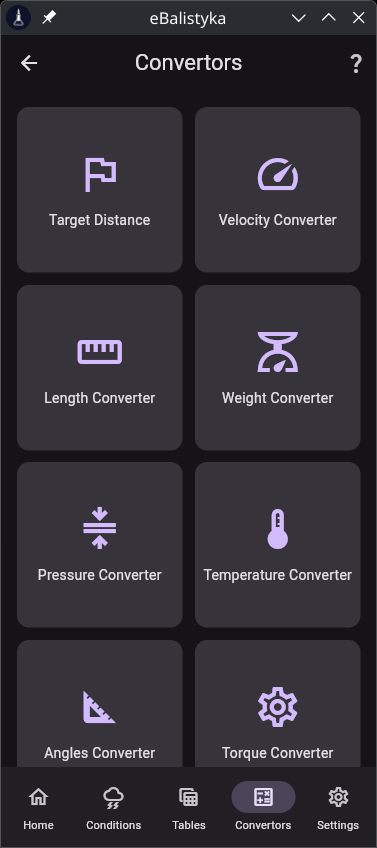
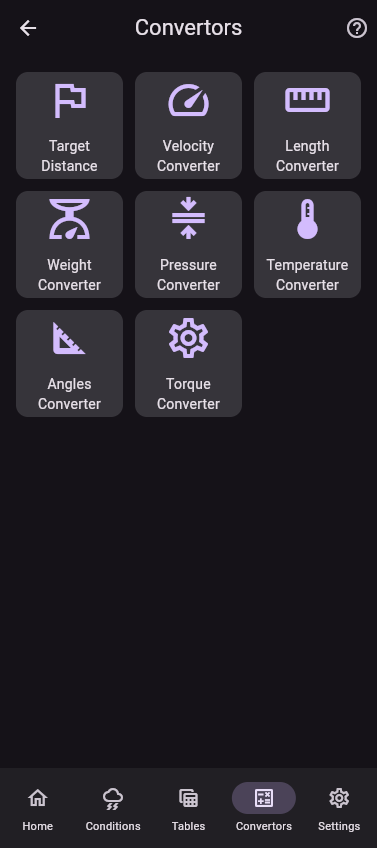
docs(help): refresh the Convertors topics; fix the pressure convertor default (760 mmHg = 1013 hPa) (0012)

diff --git a/packages/ebc_db/lib/src/ops/settings_ops.dart b/packages/ebc_db/lib/src/ops/settings_ops.dart
@@ -75,8 +75,10 @@ void _sanitizeConvertorsState(ConvertorsState c) {
 ConvertorsState defaultConvertorsState() => ConvertorsState(
   length: UnitValue(value: 100.0, lastUnit: 'inch'),
   weight: UnitValue(value: 100.0, lastUnit: 'grain'),
-  // Stored in mmHg, shown in hPa — ported app behaviour, see the schema.
-  pressure: UnitValue(value: 1013.0, lastUnit: 'hPa'),
+  // Stored in mmHg: 760 mmHg is the standard atmosphere, i.e. 1013 hPa. (The
+  // old entity default was 1013 here, which the converter showed as
+  // 1351 hPa — a unit mix-up, not worth porting.)
+  pressure: UnitValue(value: 760.0, lastUnit: 'hPa'),
   temperature: UnitValue(value: 68.0, lastUnit: 'celsius'),
   torque: UnitValue(value: 100.0, lastUnit: 'newtonMeter'),
   angles: AnglesConv(

diff --git a/packages/ebc_db/test/settings_test.dart b/packages/ebc_db/test/settings_test.dart
@@ -66,6 +66,7 @@ void main() {
 
     test('defaultConvertorsState is non-zero, matching the old defaults', () {
       final c = defaultConvertorsState();
+      expect(c.pressure.value, 760.0); // mmHg = 1013 hPa
       expect(c.length.value, 100.0);
       expect(c.length.lastUnit, 'inch');
       expect(c.velocity.valueMps, 300.0);

diff --git a/assets/markdown/uk/convertorsScreen.md b/assets/markdown/uk/convertorsScreen.md
@@ -1,22 +1,24 @@
 ## Конвертери
 
+![Конвертери](resource:assets/markdown/uk/convertorsScreen_grid.png)
+
 Набір інструментів для швидкого перетворення балістичних і фізичних величин.
 
-Натисніть на будь-яку плитку, щоб відкрити конвертер.
+Натисніть на будь-яку плитку, щоб відкрити конвертер: **Відстань до цілі**, **Швидкість**, **Довжина**, **Вага**, **Тиск**, **Температура**, **Кути** та **Момент**. Кожен запам'ятовує останнє значення й одиницю, які ви використовували.
 
 ---
 
 ### Прості конвертери
 
-Вводьте значення у верхньому полі, обирайте одиниці — решта полів оновлюються миттєво.
+Вводьте значення у верхньому полі й обирайте його одиницю — решта значень оновлюються миттєво.
 
 | Конвертер | Одиниці |
 |---|---|
 | **Довжина** | см, м, дюйм, фут, ярд |
-| **Маса** | г, кг, гран, фунт, унція |
-| **Тиск** | hPa, mmHg, inHg, psi, bar, атм |
+| **Вага** | г, кг, гран, фунт, унція |
+| **Тиск** | гПа, mmHg, inHg, psi, bar, атм |
 | **Температура** | °C, °F |
-| **Момент сили** | Н·м, ft·lbf, in·lbf |
+| **Момент** | Н·м, ft·lb, in·lb |
 
 ---
 
@@ -24,6 +26,6 @@
 
 Три конвертери мають додаткові поля та власну довідку (кнопка **?**):
 
-- **Швидкість** — конвертація між м/с, fps, mph, km/h та числом Маха з урахуванням атмосфери
-- **Дистанція за ціллю** — розрахунок дистанції за кутовим і фізичним розміром цілі
+- **Швидкість** — конвертація між м/с, км/год, fps, mph та числом Маха, з можливістю власної атмосфери
+- **Відстань до цілі** — розрахунок дистанції за кутовим і фізичним розміром цілі
 - **Кути** — конвертація між кутовими одиницями та розрахунок поправок на дистанції

diff --git a/assets/markdown/en/convertorsScreen.md b/assets/markdown/en/convertorsScreen.md
@@ -1,29 +1,31 @@
-## Converters
+## Convertors
+
+![Convertors](resource:assets/markdown/en/convertorsScreen_grid.png)
 
 A set of tools for quick conversion of ballistic and physical quantities.
 
-Tap any tile to open a converter.
+Tap any tile to open a convertor: **Target Distance**, **Velocity**, **Length**, **Weight**, **Pressure**, **Temperature**, **Angles** and **Torque**. Each remembers the last value and unit you used.
 
 ---
 
-### Simple Converters
+### Simple Convertors
 
-Enter a value in the top field and select units — all other fields update instantly.
+Enter a value in the top field and select its unit — all other values update instantly.
 
-| Converter | Units |
+| Convertor | Units |
 |---|---|
 | **Length** | cm, m, inch, foot, yard |
 | **Weight** | g, kg, grain, pound, ounce |
 | **Pressure** | hPa, mmHg, inHg, psi, bar, atm |
 | **Temperature** | °C, °F |
-| **Torque** | N·m, ft·lbf, in·lbf |
+| **Torque** | N·m, ft·lb, in·lb |
 
 ---
 
-### Advanced Converters
+### Advanced Convertors
 
-Three converters have extra fields and their own guide (**?** button):
+Three convertors have extra fields and their own guide (the **?** button):
 
-- **Velocity** — convert between m/s, fps, mph, km/h and Mach number with atmosphere support
+- **Velocity** — convert between m/s, km/h, fps, mph and Mach number, with a custom atmosphere option
 - **Target Distance** — calculate distance from a target's angular and physical size
 - **Angles** — convert between angular units and compute adjustments at a given distance

diff --git a/assets/markdown/uk/velocityConvertor.md b/assets/markdown/uk/velocityConvertor.md
@@ -10,7 +10,7 @@
 
 Число Маха залежить від швидкості звуку, яка змінюється разом з атмосферними умовами.
 
-За замовчуванням використовується стандартна атмосфера ICAO (15 °C, 1013.25 hPa, висота 0 м).
+За замовчуванням використовується стандартна атмосфера ICAO (15 °C, 1013.25 hPa, висота 0 м, сухе повітря); рядок під перемикачем показує, яка саме атмосфера використовується.
 
 **Перемикач «Власна атмосфера»** — дозволяє задати реальні умови:
 

diff --git a/assets/markdown/en/velocityConvertor.md b/assets/markdown/en/velocityConvertor.md
@@ -10,9 +10,9 @@ Enter a value in the top field and select units — all other fields update inst
 
 Mach number depends on the speed of sound, which varies with atmospheric conditions.
 
-By default, the ICAO standard atmosphere is used (15 °C, 1013.25 hPa, altitude 0 m).
+By default, the ICAO standard atmosphere is used (15 °C, 1013.25 hPa, altitude 0 m, dry air); the line under the toggle says which one is in use.
 
-**"Custom Atmosphere" toggle** — lets you enter real conditions:
+**"Custom atmosphere" toggle** — lets you enter real conditions:
 
 - **Temperature** — air temperature
 - **Pressure** — atmospheric pressure
